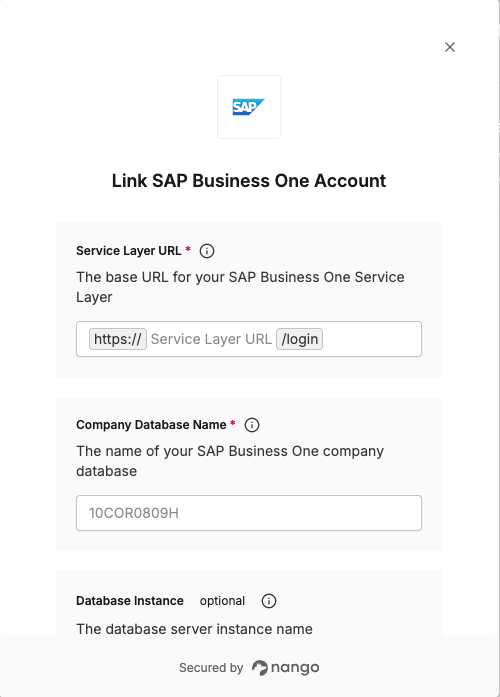
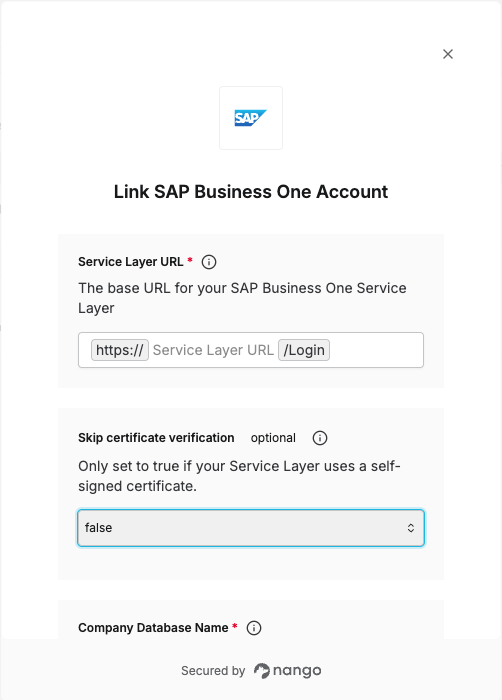
feat(integrations): add opt-in option to skip TLS cert verification

diff --git a/packages/shared/lib/services/proxy/outbound-policy.ts b/packages/shared/lib/services/proxy/outbound-policy.ts
@@ -1,9 +1,12 @@
+import https from 'node:https';
+
 import {
     absoluteUrlFromRedirectRequestOptions,
     assertSafeOutboundUrl,
     createAsyncRedirectValidator,
     createRedirectValidator,
     getSafeHttpAgents,
+    getSafeLookup,
     getSafeUndiciDispatcher,
     resolvePolicyForOAuth,
     resolvePolicyForServer
@@ -14,7 +17,6 @@ import { envs } from '../../env.js';
 import type { OutboundUrlPolicy, ValidateOutboundUrlContext } from '@nangohq/egress';
 import type { AxiosRequestConfig } from 'axios';
 import type http from 'node:http';
-import type https from 'node:https';
 import type { buildConnector, Agent as UndiciAgent } from 'undici';
 
 export {
@@ -72,6 +74,23 @@ export async function assertSafeOAuthUrl(url: string, ctx?: ValidateOutboundUrlC
 
 export function getOAuthSafeHttpAgents(): { httpAgent: http.Agent; httpsAgent: https.Agent } {
     return getSafeHttpAgents(getOAuthOutboundUrlPolicy());
+}
+
+export function buildUnverifiedHttpsAgent({
+    policy,
+    allowSelfSignedCert
+}: {
+    policy: OutboundUrlPolicy;
+    allowSelfSignedCert?: boolean | undefined;
+}): https.Agent | undefined {
+    if (!allowSelfSignedCert) {
+        return undefined;
+    }
+
+    return new https.Agent({
+        rejectUnauthorized: false,
+        lookup: getSafeLookup(policy)
+    });
 }
 
 /** Headers that may be retained on OAuth token redirects; everything else is treated as credential material. */

diff --git a/packages/shared/lib/services/connection.service.ts b/packages/shared/lib/services/connection.service.ts
@@ -47,8 +47,10 @@ import {
 import * as functionLifecycle from './functions/lifecycle/index.js';
 import {
     assertSafeOAuthUrl,
+    buildUnverifiedHttpsAgent,
     findOutboundUrlError,
     getOAuthAxiosRequestConfig,
+    getOAuthOutboundUrlPolicy,
     getOAuthRedirectPolicy,
     getOAuthSafeUndiciDispatcher
 } from './proxy/outbound-policy.js';
@@ -101,6 +103,7 @@ import type {
     TwoStepCredentials
 } from '@nangohq/types';
 import type { Result } from '@nangohq/utils';
+import type https from 'node:https';
 import type { Agent } from 'undici';
 
 const logger = getLogger('Connection');
@@ -2170,7 +2173,19 @@ export class ConnectionService {
         try {
             await assertSafeOAuthUrl(url);
 
-            const requestOptions = { headers, ...getOAuthAxiosRequestConfig() };
+            let httpsAgent: https.Agent | undefined;
+            if (provider.allow_unverified_https) {
+                httpsAgent = buildUnverifiedHttpsAgent({
+                    policy: getOAuthOutboundUrlPolicy(),
+                    allowSelfSignedCert: connectionConfig['allowSelfSignedCert'] === 'true'
+                });
+            }
+
+            const requestOptions = {
+                headers,
+                ...getOAuthAxiosRequestConfig(),
+                ...(httpsAgent && { httpAgent: httpsAgent, httpsAgent })
+            };
 
             const bodyContent =
                 bodyFormat === 'xml'

diff --git a/packages/shared/lib/services/proxy/utils.ts b/packages/shared/lib/services/proxy/utils.ts
@@ -16,6 +16,7 @@ import {
 } from '../../utils/utils.js';
 import { getProvider } from '../providers.js';
 import { signAwsSigV4Request } from './aws-sigv4.js';
+import { buildUnverifiedHttpsAgent } from './outbound-policy.js';
 
 import type { OutboundUrlPolicy } from '@nangohq/egress';
 import type {
@@ -194,6 +195,21 @@ export function getAxiosConfiguration({
                     `Certificate and private key must be in PEM format with proper BEGIN/END boundaries: ${err}`
                 );
             }
+        }
+    }
+
+    if (
+        proxyConfig.provider.allow_unverified_https &&
+        // connection_config, not the provider template, so this is opt-in per connection, not for the whole integration
+        connection.connection_config?.['allowSelfSignedCert'] === 'true' &&
+        !axiosConfig.httpAgent &&
+        !axiosConfig.httpsAgent &&
+        outboundPolicy
+    ) {
+        const agent = buildUnverifiedHttpsAgent({ policy: outboundPolicy, allowSelfSignedCert: true });
+        if (agent) {
+            axiosConfig.httpAgent = agent;
+            axiosConfig.httpsAgent = agent;
         }
     }
 

diff --git a/packages/types/lib/providers/provider.ts b/packages/types/lib/providers/provider.ts
@@ -103,6 +103,7 @@ export interface BaseProvider {
     authorization_url_fragment?: string;
     body_format?: OAuthBodyFormatType;
     require_client_certificate?: boolean;
+    allow_unverified_https?: boolean;
     token_request_auth_method?: 'basic' | 'custom' | 'private_key_jwt';
     available_scopes?: string[];
 }
